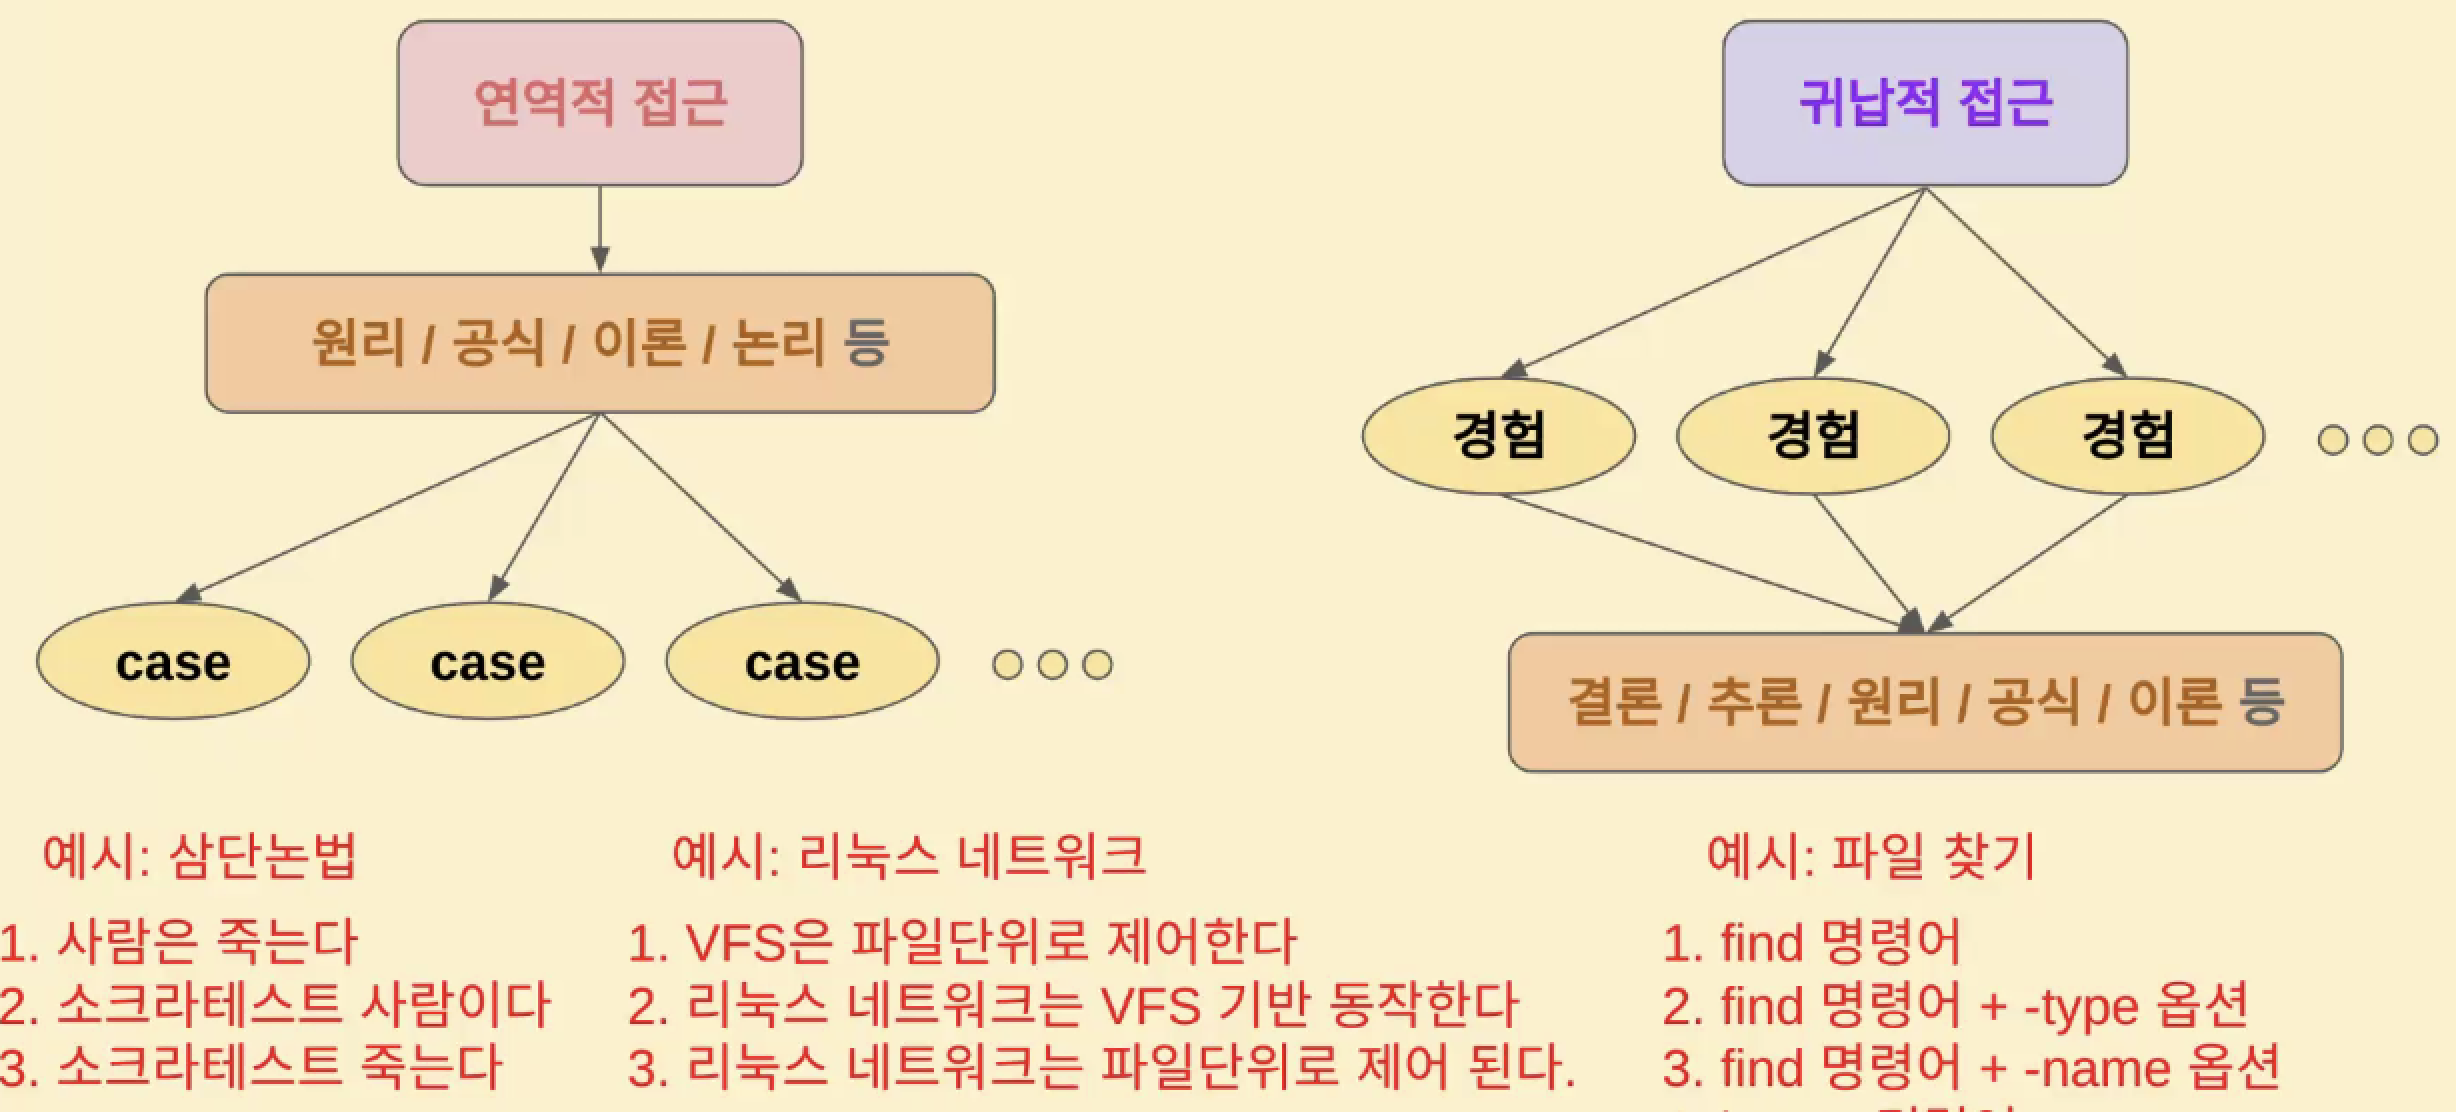
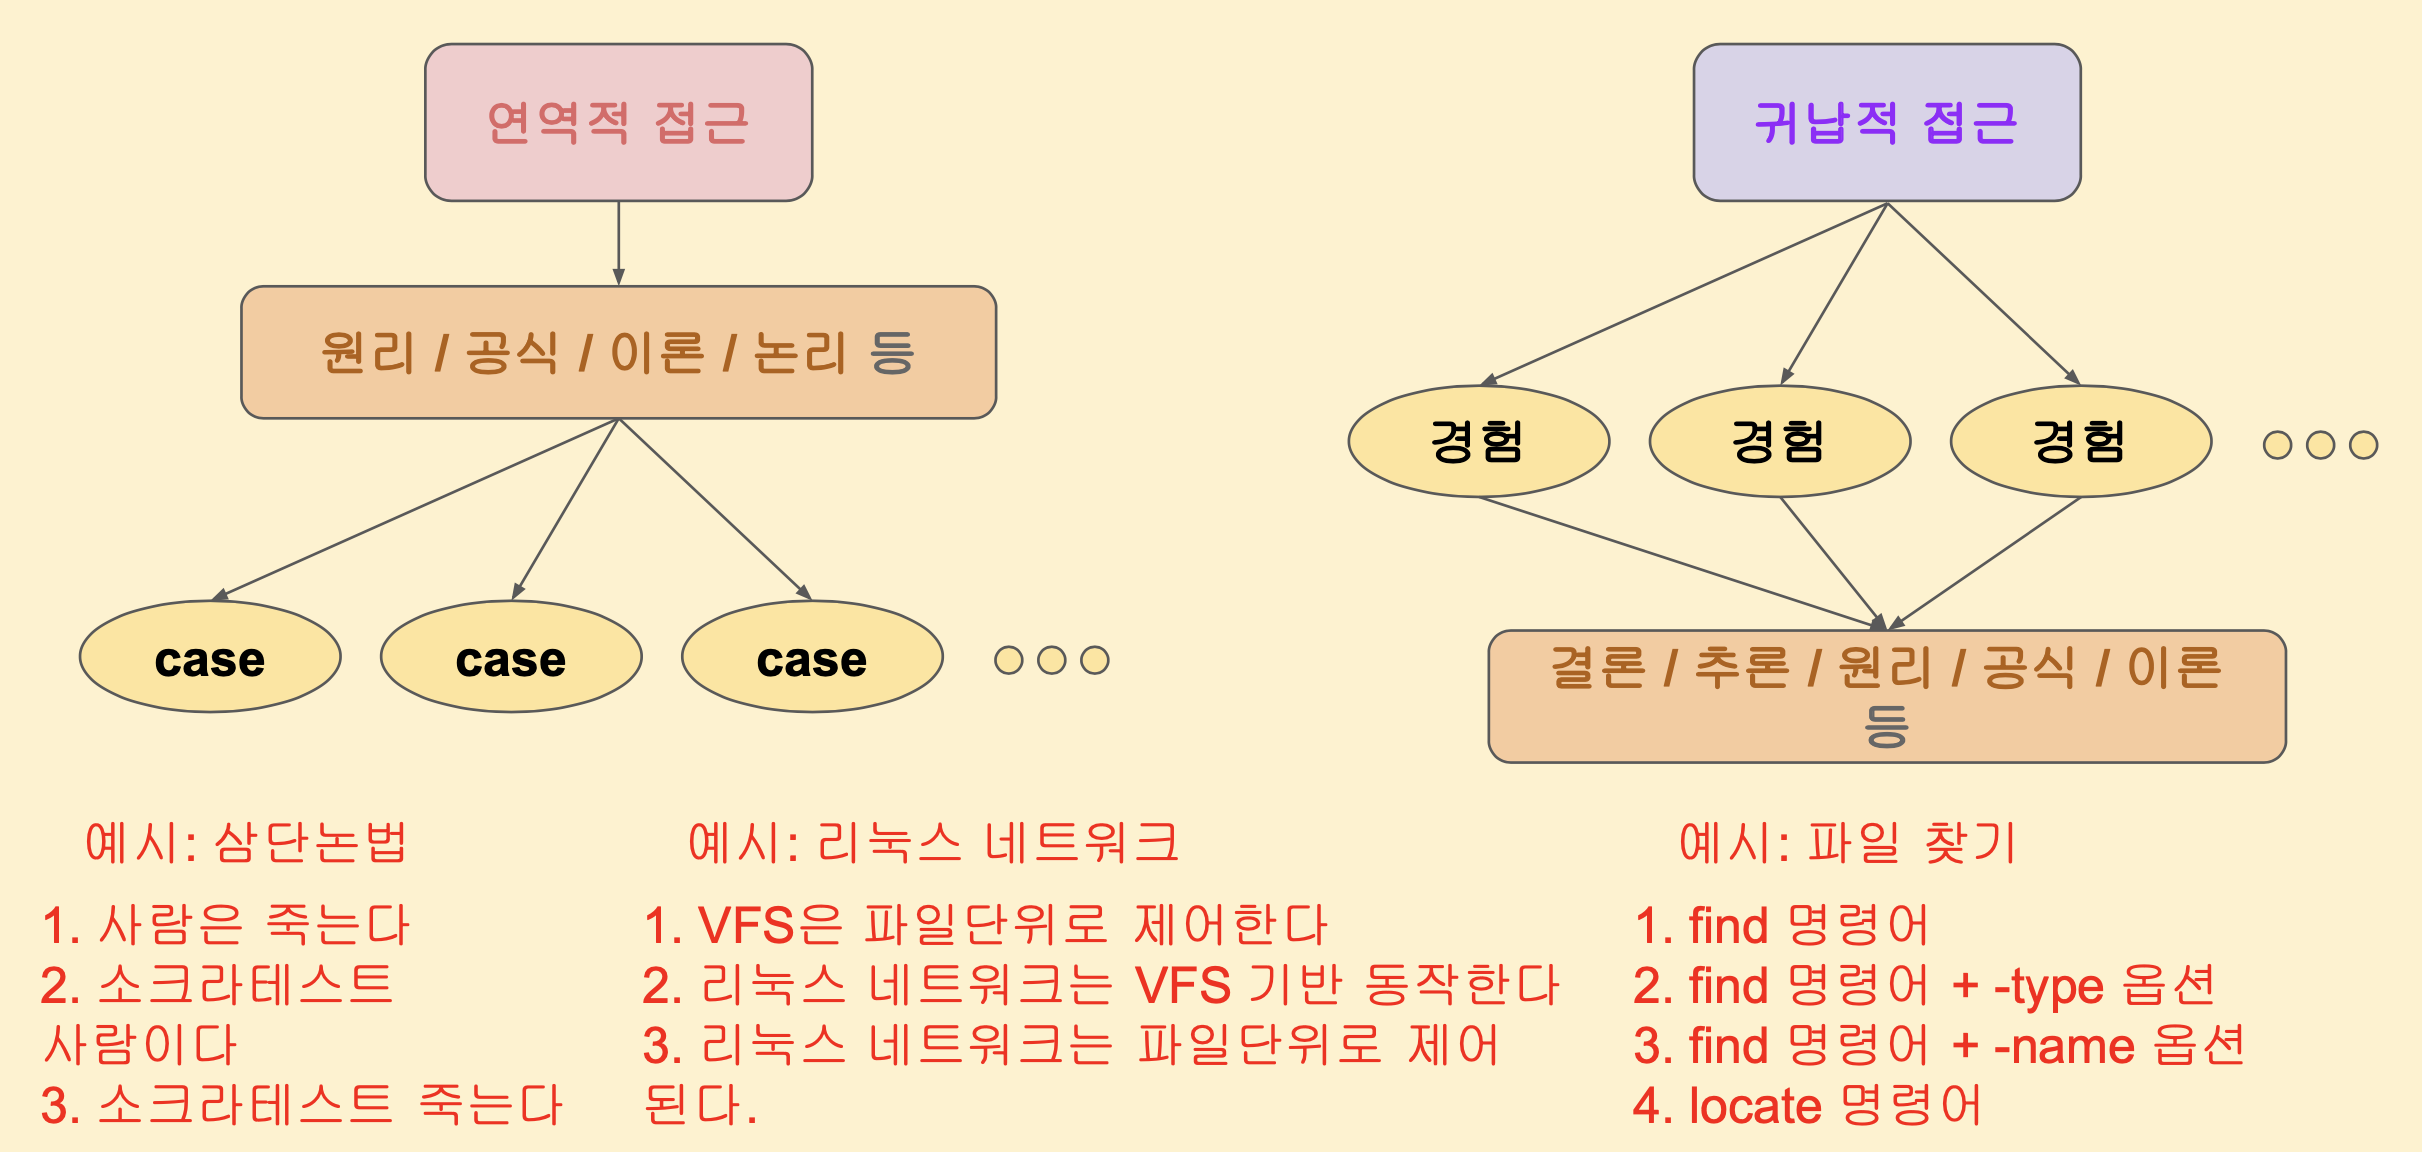
[Add] linux seminar

diff --git a/gatsby-meta-config.js b/gatsby-meta-config.js
@@ -19,7 +19,7 @@ module.exports = {
     },
     social: {
       github: `https://github.com/jjunyong`, // `https://github.com/zoomKoding`,
-      linkedIn: `https://www.linkedin.com/in/jjunyong/`,
+      linkedIn: ``,
       email: `sjm3bro@gmail.com`, // `zoomkoding@gmail.com`,
     },
   },
@@ -42,20 +42,46 @@ module.exports = {
       },
       // ========================================================
       // ========================================================
+      // {
+      //   date: '2021.02 ~',
+      //   activity: '개인 블로그 개발 및 운영',
+      //   links: {
+      //     post: '/gatsby-starter-zoomkoding-introduction',
+      //     github: 'https://github.com/zoomkoding/zoomkoding-gatsby-blog',
+      //     demo: 'https://www.zoomkoding.com',
+      //   },
+      // },
       {
-        date: '2022~현재',
-        activity: '기아 온라인 플랫폼(kia.com) 개발 운영',
+        date: '2019~2021',
+        activity: '현대차 대고객 온라인 플랫폼 구축 및 운영',
         links: {
-          demo: 'https://kia.com/kr',
         },
       },
       {
         date: '2022~현재',
-        activity: '온유(OnYou) 앱 개발 운영',
+        activity: '기아 온라인 판매 플랫폼(kia.com) 개발 및 운영',
         links: {
-          demo: 'https://kia.com/kr',
+          demo: 'https://kia.com/kr'
+        },
+      },
+      {
+        date: '2022~현재',
+        activity: '온유(Onyou) 앱 개발 및 운영',
+        links: {
+          post: '/onyou-restropect',
+          googlePlay: 'https://play.google.com/store/apps/details?id=com.onyoufrontend&pcampaignid=web_share',
+          appStore: ''
+        },
+      },
+      {
+        date: '2023~현재',
+        activity: 'Bringit 앱 개발',
+        links: {
+          googlePlay: '',
+          appStore: ''
         },
       }
+      
     ],
 
     projects: [
@@ -77,15 +103,14 @@ module.exports = {
       // ========================================================
       // ========================================================
       {
-        title: '개발 블로그 테마 개발',
+        title: '온유(Onyou) 앱 개발 및 운영',
         description:
-          '개발 블로그를 운영하는 기간이 조금씩 늘어나고 점점 많은 생각과 경험이 블로그에 쌓아가면서 제 이야기를 담고 있는 블로그를 직접 만들어보고 싶게 되었습니다. 그동안 여러 개발 블로그를 보면서 좋았던 부분과 불편했던 부분들을 바탕으로 레퍼런스를 참고하여 직접 블로그 테마를 만들게 되었습니다.',
-        techStack: ['gatsby', 'react'],
-        thumbnailUrl: 'blog.png',
+          'SNS 기반의 공동체 소모임 어플리케이션',
+        techStack: ['ReactNative', 'Spring boot', 'K8S'],
+        thumbnailUrl: 'onyou.png',
         links: {
-          post: '/gatsby-starter-zoomkoding-introduction',
-          github: 'https://github.com/zoomkoding/zoomkoding-gatsby-blog',
-          demo: 'https://www.zoomkoding.com',
+          post: '/onyou-restropect',
+          googlePlay: 'https://play.google.com/store/apps/details?id=com.onyoufrontend&pcampaignid=web_share'
         },
       },
     ],

diff --git a/content/reallinux-seminar/index.md b/content/reallinux-seminar/index.md
@@ -1,7 +1,7 @@
 ---
 emoji: 🧢
 title: '[기술 세미나] 리눅스 패키지 문제해결 사례 핵심분석'
-date: '2023-12-10 00:00:00'
+date: '2023-12-15 00:00:00'
 author: jjunyong
 tags: Linux
 categories: DevOps Linux
@@ -9,18 +9,17 @@ categories: DevOps Linux
 
 ## 문제란 무엇인가? 
 - 문제란 목표와 현 상황의 차이(Gap)이다.
-  - 따라서 단순히 에러 메시지가 어떻다에서 그치지 않고 목표를 정확하게 잘 정의하는 것이 중요하다. 
+- 따라서 단순히 에러 메시지가 어떻다에서 그치지 않고 목표를 정확하게 잘 정의하는 것이 중요하다. 
 
 ### 문제 해결의 다양한 접근 방법 1 : "문제의 현상과 원인은 다르다"
 예를 들어 보자.
 - 문제의 현상 : 파일 생성 오류 
-  - 파일 생성 오류가 나는 것은 root cause가 아니라 현상이다. 따라서 이에 대한 원인을 하나씩 찾아나가는 것이 중요하다.
+- 파일 생성 오류가 나는 것은 root cause가 아니라 현상이다. 따라서 이에 대한 원인을 하나씩 찾아나가는 것이 중요하다.
 
 ### 문제 해결의 다양한 접근 방법 2 : "잘게 쪼개고 구체화하라"
-- 절차, 단계, 열거, 관찰, 점검
+- 절차, 단계, 열거, 관찰, 점검을 통해 문제를 해결한다. 
   - 리눅스 / 네트웍이 어떻게 원래 돌아가는 지 알아야 절차와 단계, 열거를 할 수 있다.
-  - 2~3 depth까지는 왜 되는지? 에 대해서 알아야 한다. 
-
+  - 이게 가능하기 위해서는 2~3 depth까지는 현상 뿐만이 아니라 원리(왜 되는지?) 에 대해서 알아야 한다. 
 
 ### 문제 해결의 다양한 접근 방법 3 : "연역적 접근 vs 귀납적 접근"
 ![image1](./image1.png)
@@ -28,64 +27,124 @@ categories: DevOps Linux
 - 그러나 문제의 scope을 결정 짓기 위해서는 연역적 접근 방식이 매우 도움이 된다. 
 
 ### 문제 해결의 다양한 접근 방법 4 : "근본원인 ( root cause ) 를 찾자"
-![image2](./image2.png)
+문제의 현상이 아니라 현상 기저의 원인이 무엇인지 찾아내야 한다.
+![image1](./image2.png)
+
+<br>
 
 ---
 
 ## 리눅스 패키지
 ### 패키지란 ? 
 - 다양한 프로그램들을 어떻게 관리할 것인가? 
-  - vim 패키지 : vim 프로그램을 위한 여러가지 파일들의 '묶음' 이다. 
-
+- ex) vim 패키지 : vim 프로그램을 위한 여러가지 파일들의 '묶음' 이다. 
 
 #### 배포판 버전과 코드명을 확인하는 방법
 - 배포판에 따라 코드명이 달라지고 이에 따른 문제가 발생할 수 있다. 따라서 배포판을 확인하는 것은 중요하다. 
+```bash
+lsbrelease -a
+cat /etc/issue
+cat /etc/os-release
+```
 
 #### apt와 apt-get의 차이점
-- apt는 apt-get, apt-cache 를 한 번에 다룰 수 있게 사용자 편리 목적으로 만들어짐
+- apt는 apt-get, apt-cache 를 한 번에 다룰 수 있게 사용자 편리 목적으로 만들어진 것이다. 
 - apt는 내부적으로 apt-get을 사용하게 되고 apt-get을 사용 시 세부적인 옵션까지 더 활용가능 하다. 
 
+#### yum,rpm vs apt,dpkg 비교
+![image4](./image4.png)
 
 #### 패키지 관리 구조
 패키지 관리의 구조를 파악하고 있어야 문제 상황에 대해서 어떤 scope에서 문제가 발생했는 지 알 수 있다. 
 ![image3](./image3.png)
 - /etc/apt/source.list에 보면 여러 url이 존재하고 이 url을 근거로 공식 패키지 저장소에서 패키지를 가져오게 된다. 
-  - Redhat기준으로는 /etc/yum.repos.d/
-  - source.list.d 는 외부 패키지 저장소에 대한 정보를 가지고 있고 여기서 404와 같은 오류가 발생할 가능성이 있다.
+  - Redhat기준으로는 /etc/yum.repos.d/*.repo 이다. 
+  - /etc/apt/source.list.d/ 디렉토리에는 외부 패키지 저장소에 대한 정보를 가지고 있고 여기서 404와 같은 오류가 발생할 가능성이 있다.
 - /var/lib/apt/lists, /var/cache/dnf/*/repodata 에 패키지 정보를 캐시로 담고 있다.
   - `apt-get-update` 명령을 하게 되면 이 경로를 채워주게 된다.
   - `apt-cache search nodejs` 와 같은 명령을 하게 되면 이 경로에서 가져오게 된다. 
   
 - /var/cache/apt/archives, /var/cache/dnf/*/packages
-  - apt-install하면 이 경로에 패키지 파일이 설치되게 되고, redhat계열에서는 packages 경로에 패키지가 임시로 설치되었다가 사라진다. 
+  - apt-install하면 이 경로에 패키지 파일이 설치되게 되고, redhat계열에서는 /var/cache/dnf/*/packages 경로에 패키지가 임시로 설치되었다가 사라진다. 
 
 
 ### 패키지 관련 문제 사례 
 
 #### 패키지 락 
+```bash
+E: Could not get lock /var/lib/dpkg/lock-frontend 
+- open (11: Resource temporarily unavailable)
+E: Unable to acquire the dpkg frontend lock
+( /var/lib/dpkg/lock-frontend ), is another process using it?
+```
 - 자동 upgrade 가 crontab등으로 인해 진행 중이었을 때 명시적으로 apt-get upgrade 명령을 하게 되면 패키지 관리자가 동기화 문제로 인해 락을 건다. 
-- 무조건 락 파일을 지우는 것은 문제가 될 수도 있다. 
-- 권한
+- 이 때 무조건 락 파일을 지우는 것은 문제가 될 수도 있다. 
 
 #### apt install 도중에 생기는 사례
-- 
-
-- 의존 패키지를 삭제하게 되면 그걸 의존하고 있는 다른 패키지에서 문제가 발생할 수 있다. `--fix-broken`
+```bash
+Unable to fetch some archives, maybe run apt-get update or try with --fix-missing?”
+```
+```bash
+# apt-update시 패키지 정보를 담고 있는 폴더 List를 모두 삭제 후 다시 install
+rm -rf /var/lib/apt/lists/*
+sudo apt update
+```
 
 #### apt install 통해 받을 수 없거나 동작에 문제가 있는 경우
-
+```bash
+wget http://abc..libelf-dev.amd64.deb
+ls libelf-dev.amd64.deb
+sudo dpkg libelf-dev.amd64.deb # dpkg 명령으로 패키지 설치
+```
 - 이 때 문제점은, 의존성 패키지까지 확인하여 모두 수동으로 받아야 한다. 
 
+#### 패키지가 어떤 구조로 설치되는지 모를 경우 : tree 명령어 활용
+```bash
+tree libelf-dev-install/
+```
 
-#### 패키지가 어디에 설치되는지 모를 경우 : tree 활용
+#### 패키지 설치하기전에 어떤 버전이 설치가 되는것인지 모른다면?
+```bash
+apt-cache policy libelf-dev
+```
 
-####  
+#### 패키지가 완전히 삭제가 안된다면?
+```bash
+# 패키지 설치 후 확인
+apt-get install -y postgresql
+dpkg -l | postgresql
 
+# 패키지 삭제 후 확인
+apt-get install -y postgresql
+dpkg -l | postgresql
 
+# 패키지 삭제 후 확인
+apt-get purge -y postgresql
+dpkg -l | postgresql
 
-- df -h가 안찼을 경우 df -i 를 확인하여 파일의 개수가 많아서 inode가 다 찼는지도 확인해야 한다. 
+# 패키지 삭제 후 확인
+apt purge -y postgresql*
+dpkg -l | postgresql
+
+# 패키지 삭제 후 확인
+apt-get purge -y postgresql*
+dpkg -l | postgresql
+```
+
+#### 디스크 공간 부족으로 인해 패키지 설치가 실패할 경우
+- 디스크가 여러 개인 경우 마운트 된 폴더 정확히 확인하기
+- `df -h`를 확인했을 때 디스크 공간은 있는 경우 `df -i` 를 확인하여 파일의 개수가 많아서 inode full이 되었는 지 확인 필요
+
 #### 디스크 용량 확보 tip 
-  - 
-
-
-####
+- depth 조절을 하면서 공간을 많이 차지하는 디렉토리를 찾는 방법
+```bash
+du -d 1 /usr -h | sort -n
+```
+- 미사용중인 패키지 삭제하기 (apt-get -y autoremove)
+- 패키지 캐시 데이터 확인 후 삭제하기 (apt-get clean)
+- 필요없는 패키지 확인 후 삭제하기 (dpkg -l, apt-get purge)
+- journalctl 로그 삭제하기
+```bash
+# 3일 이상된 로그 삭제
+journalctl --vacuum-time=3d
+```

diff --git a/content/cks-cheatsheet/index.md b/content/cks-cheatsheet/index.md
@@ -11,14 +11,19 @@ categories: DevOps
 #### kubectl
 - Resoruce API Version 확인 : kubectl api-resources
 - Resource Spec/Status 확인 : kubectl explain –recursive {resource}
+
 #### AppArmor
 - Profile 적용 : apparmor_parser {profile_path}
 - Profile 확인 : aa-status | grep {profile_name}
+
 #### kubesec
 - Resource 검사 : kubesec scan {resource}
+
 #### Trivy
 - Image 검사 : trivy image –severity {UNKNOWN,LOW,MEDIUM,HIGH,CRITICAL} {image_name}
 - Tar Image 검사 : trivy image –severity {UNKNOWN,LOW,MEDIUM,HIGH,CRITICAL} –input {image_tar}
+
+### Falco & Sysdig
 #### Falco
 - Falco 시작 : systemctl start falco
 - Falco Config 설정 변경 : vim /etc/falco/falco.yaml
@@ -26,6 +31,12 @@ categories: DevOps
 - Falco console output 확인 : jouarnalctl -fu falco
 - Falco Rule 추가/변경 : vim /etc/falco/falco_rules.local.yaml
 - crictl pods -id {container_id} 명령으로 falco output에서 조회되는 container id 기반으로 pod/deployment 찾기. 
+
+#### Sysdig
+- sysdig -l | grep {time, user, proc, name} 등의 명령으로 output 시 사용할 변수명을 파악할 수 있음
+- crictl info | grep sock 명령으로 containerEndpoint가 `/run/containerd/containerd.sock` 임을 확인할 수 있음 
+- sysdig -M 30 -p '%evt.time, %user.name, %proc.name' --cri /run/containerd/containerd.sock container.name=tomcat123 >> 주어진 파일 경로 
+
 #### Seccomp
 - default 프로필 디렉토리 : /var/lib/kubelet/seccomp/profiles/
 

diff --git a/content/error-prometheus/index.md b/content/error-prometheus/index.md
@@ -1,0 +1,18 @@
+---
+emoji: 🧢
+title: '[Error] Prometheus CrashLoopbackOff'
+date: '2022-12-14 00:00:00'
+author: jjunyong
+tags: prometheus
+categories: Error DevOps
+---
+
+개발, 검증계와 동일한 prometheus의 yaml파일로 운영에서 pod 생성시 CrashLoopbackOff 상태에 빠지게 된다. 
+<br>
+configmap-reload 컨테이너를 제외시키고 prometheus pod의 로그만 확인 시, '/mnt/pv/.... file not found' 와 같은 에러가 발생했다. 
+실제 pod에서는 컨테이너 기동 시에 해당 tsdb를 찾으려고 하는 모양인데 실제 volume에는 해당 파일이 없는 것으로 pv debugger를 활용하여 확인하였다. 
+
+> #### PV debugger 활용
+> PV에 직접 접근할 방법이 별도로 없기 떄문에, busybox 이미지를 활용하여 문제가 되는 prometheus의 pvc를 volume으로 설정, mount하여 접근한다. 
+
+- 결국 tsdb의 path로 마운트된 볼륨에서 해당 경로를 백업한 뒤 모두 비워주고 Pod를 기동하니, 새로운 데이터를 쌓으면서 정상적으로 pod가 기동됨을 확인하였다. 

diff --git a/content/error-k8s-crash/index.md b/content/error-k8s-crash/index.md
@@ -4,7 +4,7 @@ title: '[Error] VM 꺼짐으로 인한 Kubernetes crash 이슈'
 date: '2023-07-16 00:00:00'
 author: jjunyong
 tags: 
-categories: Error
+categories: Error DevOps
 ---
 
 https://igotit.tistory.com/entry/%EC%9C%88%EB%8F%84%EC%9A%B0-10-%EC%9E%90%EB%8F%99%EC%97%85%EB%8D%B0%EC%9D%B4%ED%8A%B8-%EC%9E%90%EB%8F%99%EC%9E%AC%EB%B6%80%ED%8C%85-%EB%B0%A9%EC%A7%80-%EC%84%A4%EC%A0%95%ED%95%98%EA%B8%B0

diff --git a/content/onyou-restrospect/index.md b/content/onyou-restrospect/index.md
@@ -1,6 +1,6 @@
 ---
 emoji: 🧢
-title: '[온유] 개발&운영 회고'
+title: '[온유] 앱 개발&운영 회고'
 date: '2023-12-01 00:00:00'
 author: jjunyong
 tags: Onyou
